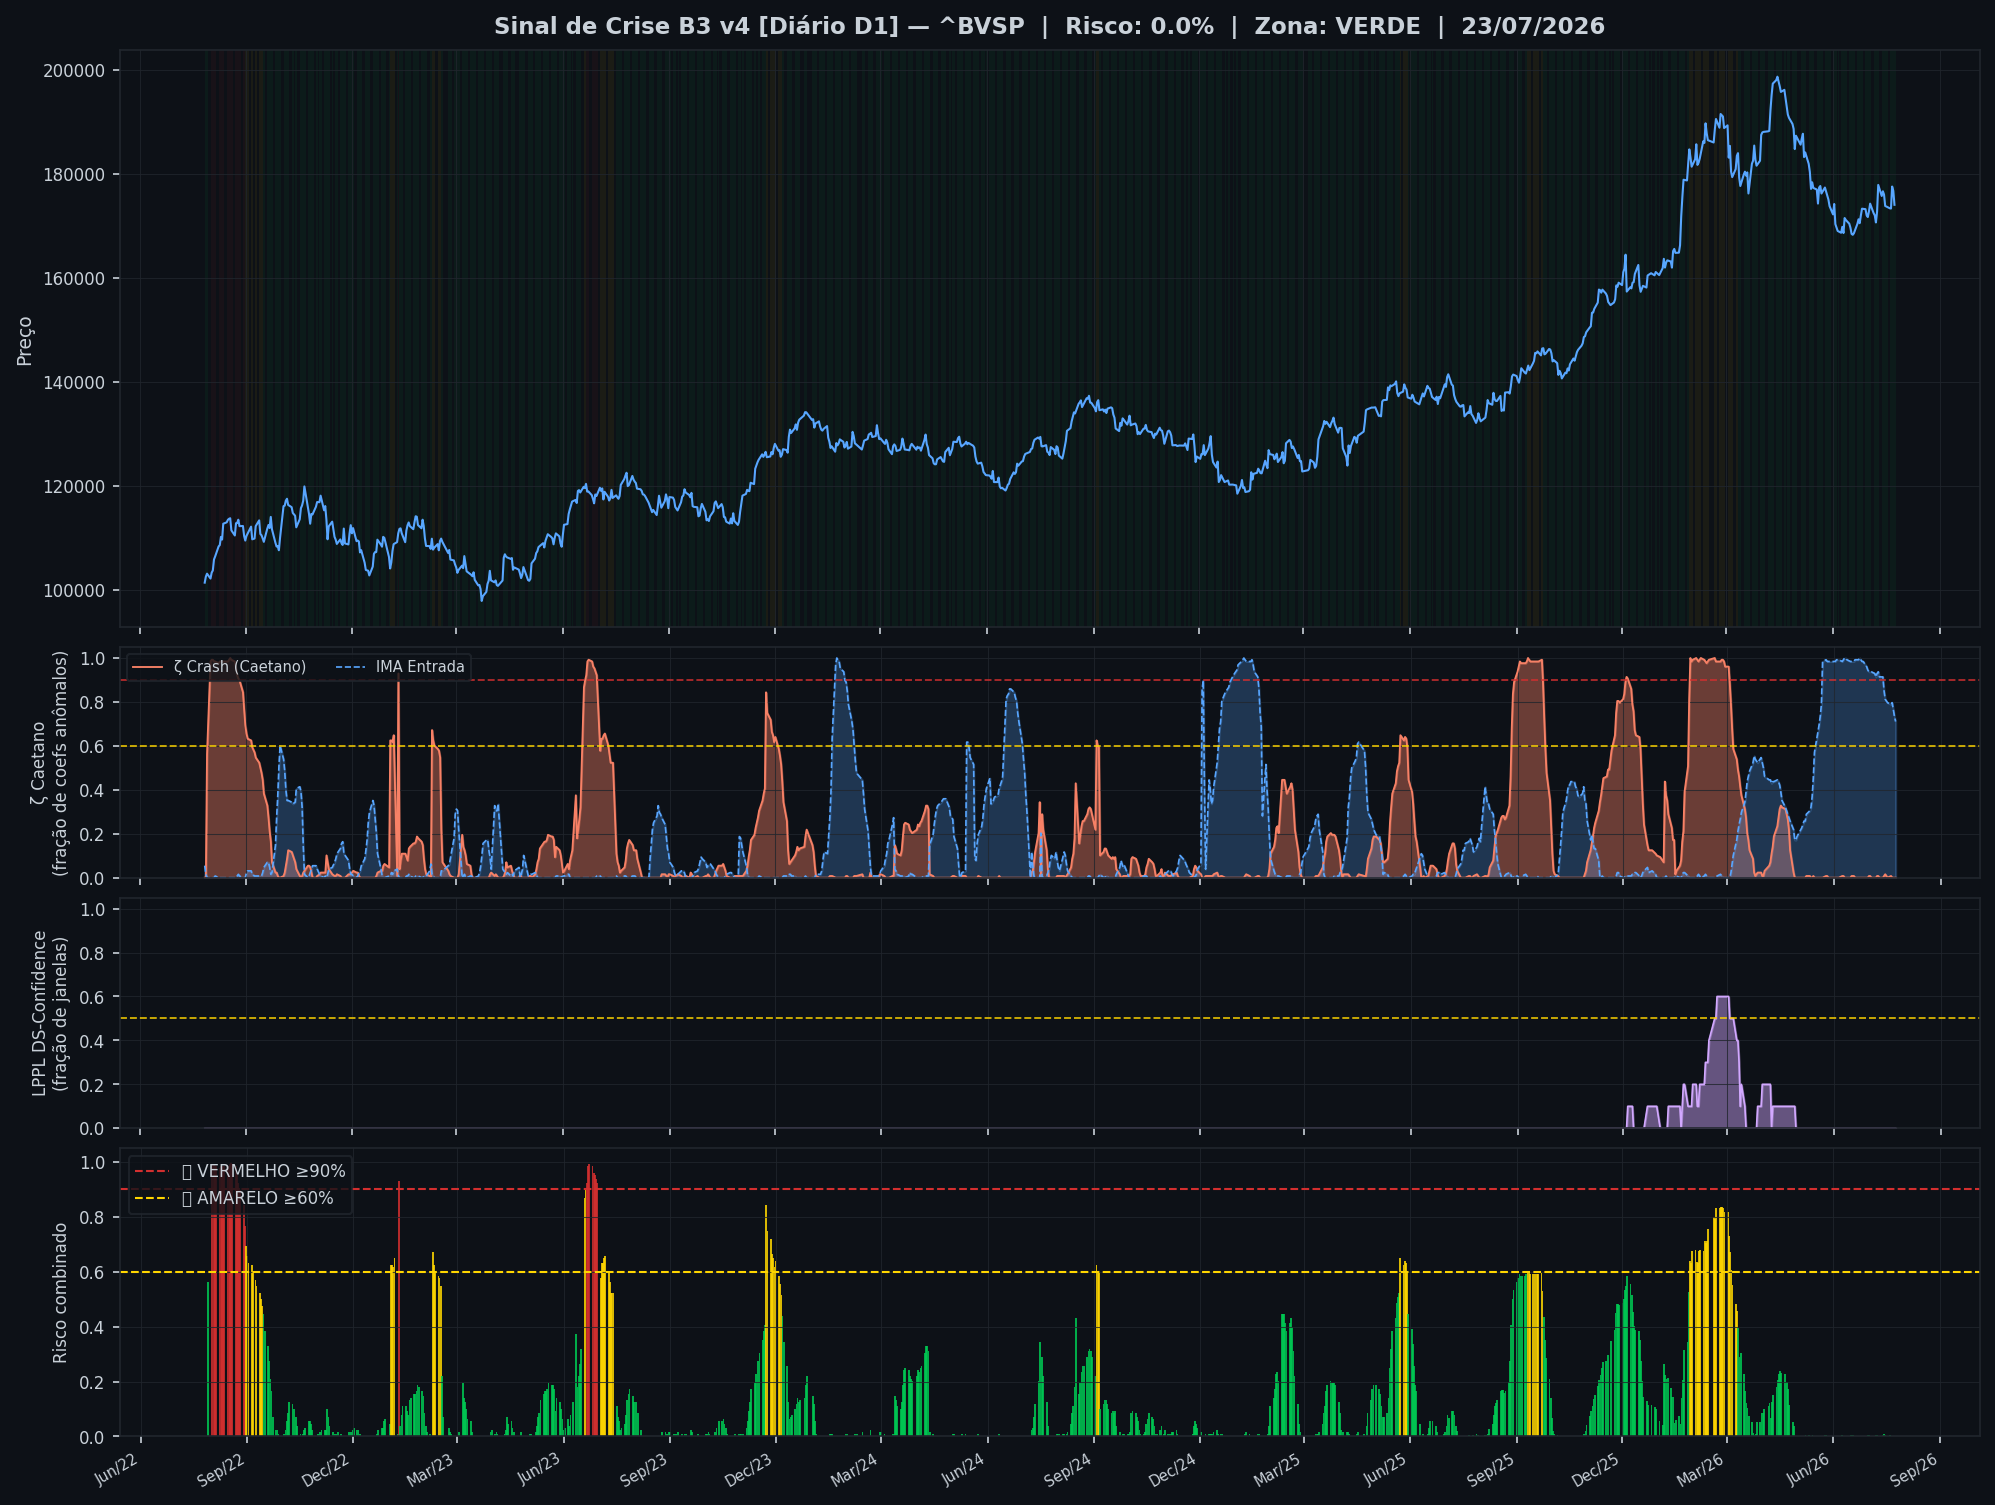
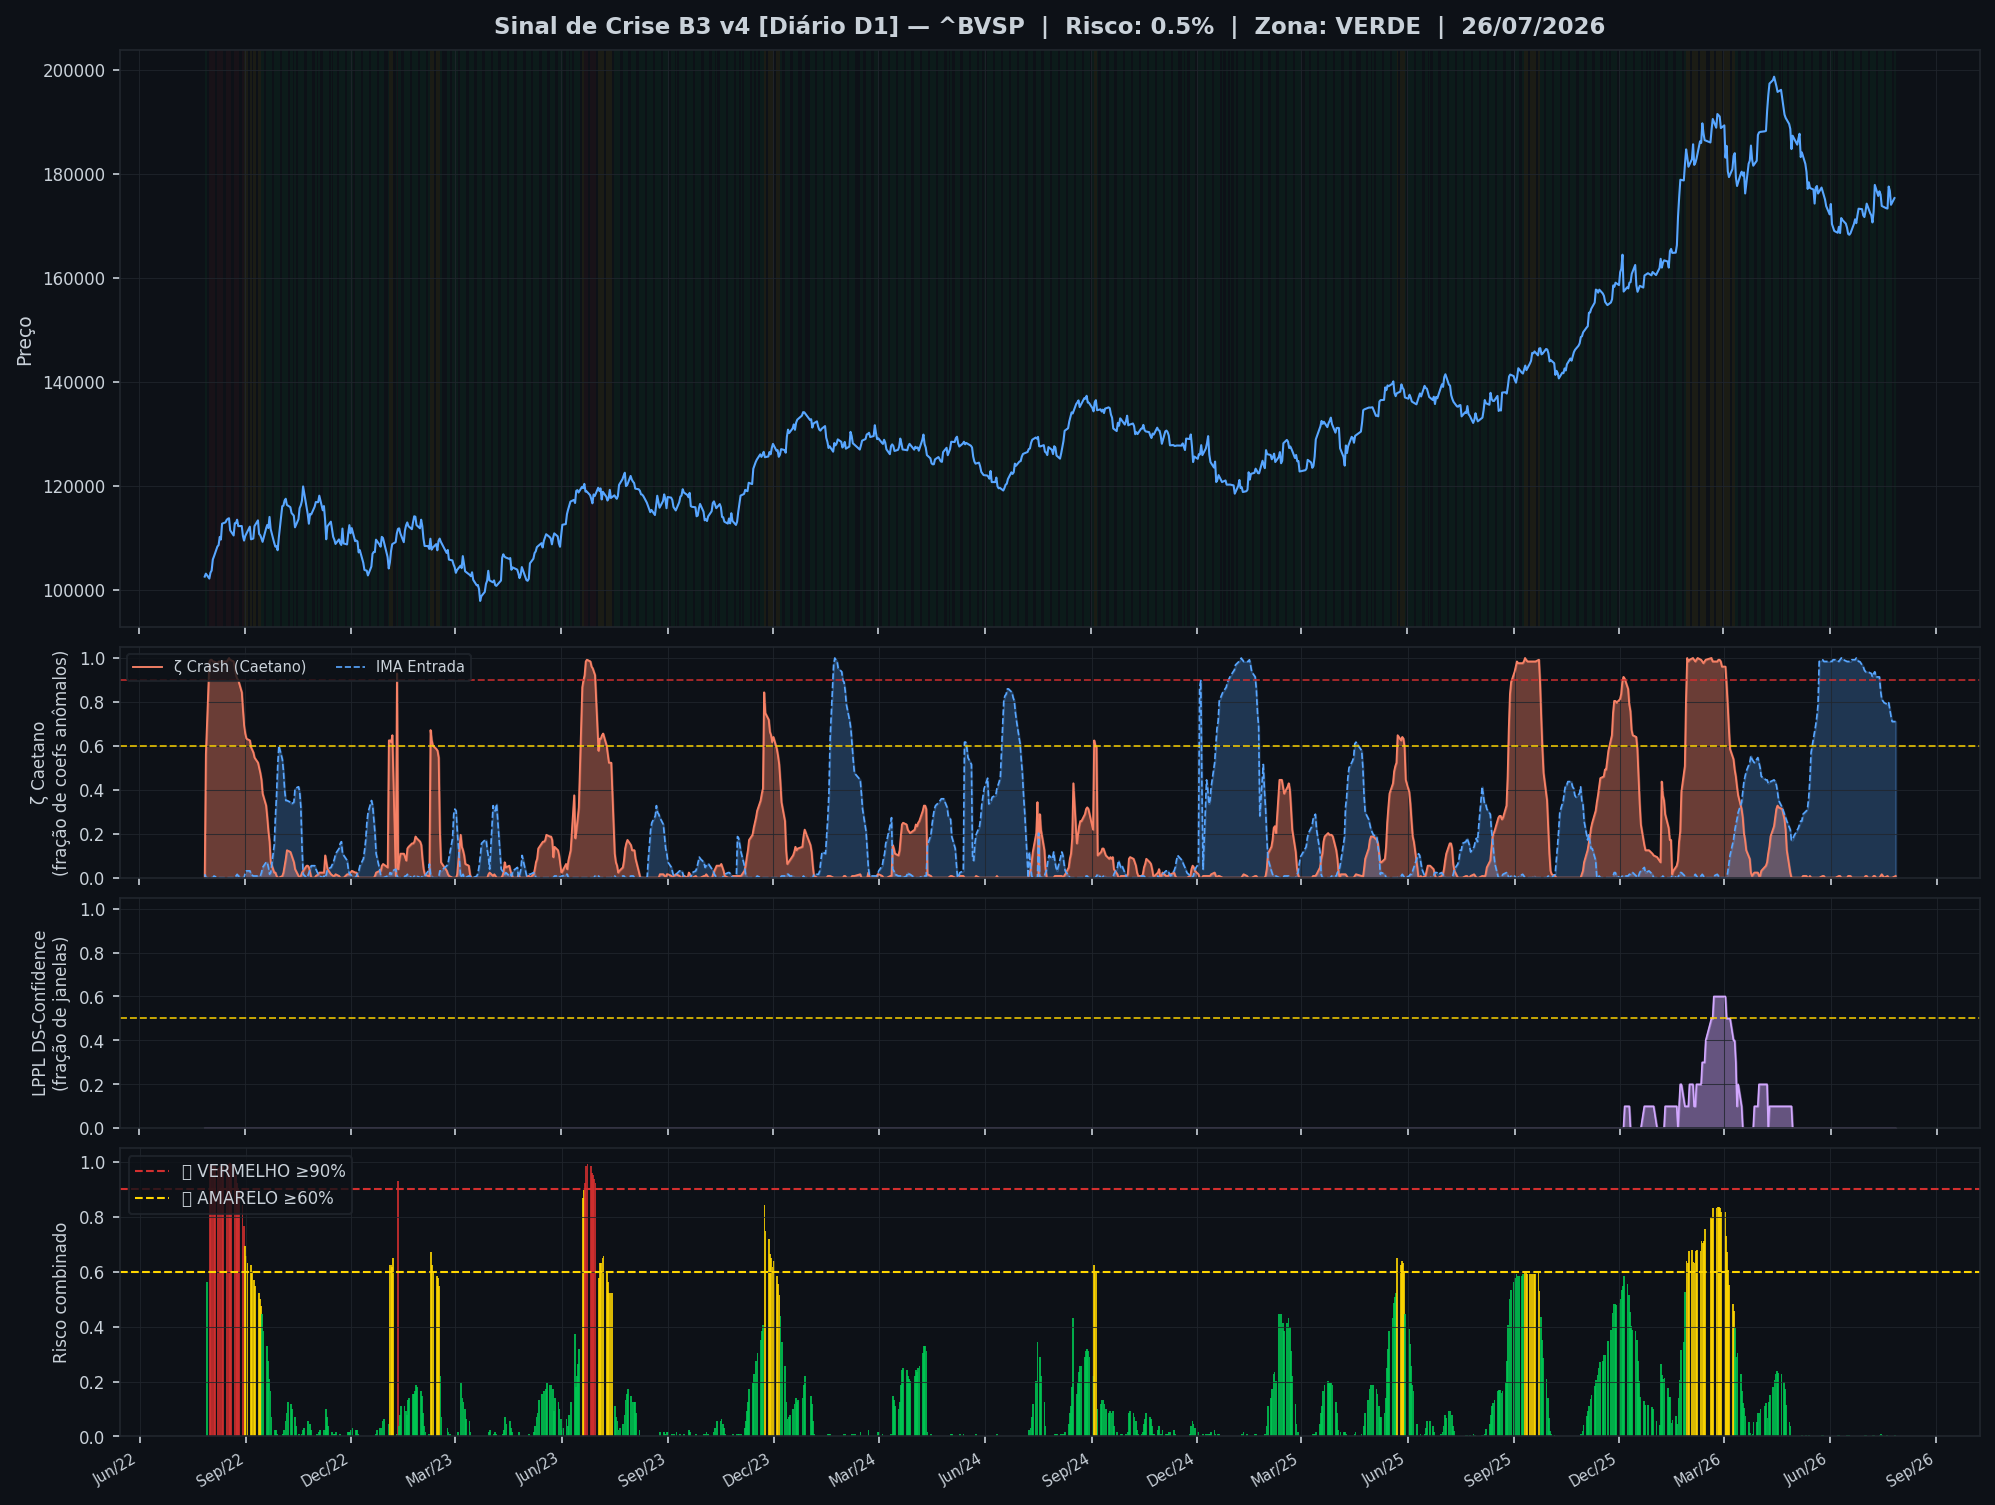
🤖 Auto: Sinal 27/07/2026 19:00

diff --git a/content/diario/2026-07-26.md b/content/diario/2026-07-26.md
@@ -1,0 +1,105 @@
+---
+title: "🟢 Diário 26/07/2026 — VERDE"
+date: 2026-07-27
+tags: [diario]
+---
+
+> [!success] 🟢 **VERDE** — Risco 0% · ＝ +0 p.p. vs leitura anterior
+> `░░░░░░░░░░░░░░░░░░░░`
+> Mercado sem sinais relevantes de estresse.
+
+
+| Indicador | Valor |
+|---|---|
+| 🔴 ζ Crash — severidade da queda em curso | **1%** |
+| 🔵 ζ Entrada — estrutura de fundo | 71% |
+| 🫧 LPPL DS-Confidence | 0% |
+| 📊 Ibovespa | 175.334 pts |
+
+![Gráfico do sinal](../graficos/sinal_diario.png)
+
+## Últimos 30 pregões
+
+| Data | Zona | Risco | IMA Crash | Entrada | LPPL |
+|---|---|---|---|---|---|
+| 2026-07-26 21:00 | 🟢 VERDE | **0%** | 1% | 71% | 0% |
+| 2026-07-23 21:00 | 🟢 VERDE | **0%** | 0% | 71% | 0% |
+| 2026-07-22 21:00 | 🟢 VERDE | **0%** | 0% | 73% | 0% |
+| 2026-07-21 21:00 | 🟢 VERDE | **0%** | 0% | 77% | 0% |
+| 2026-07-20 21:00 | 🟢 VERDE | **0%** | 0% | 80% | 0% |
+| 2026-07-19 21:00 | 🟢 VERDE | **0%** | 1% | 79% | 0% |
+| 2026-07-16 21:00 | 🟢 VERDE | **0%** | 0% | 80% | 0% |
+| 2026-07-15 21:00 | 🟢 VERDE | **0%** | 1% | 80% | 0% |
+| 2026-07-14 21:00 | 🟢 VERDE | **1%** | 2% | 81% | 0% |
+| 2026-07-13 21:00 | 🟢 VERDE | **0%** | 1% | 85% | 0% |
+| 2026-07-12 21:00 | 🟢 VERDE | **0%** | 0% | 91% | 0% |
+| 2026-07-09 21:00 | 🟢 VERDE | **0%** | 0% | 91% | 0% |
+| 2026-07-08 21:00 | 🟢 VERDE | **0%** | 1% | 94% | 0% |
+| 2026-07-07 21:00 | 🟢 VERDE | **0%** | 1% | 93% | 0% |
+| 2026-07-06 21:00 | 🟢 VERDE | **0%** | 0% | 91% | 0% |
+| 2026-07-05 21:00 | 🟢 VERDE | **0%** | 0% | 93% | 0% |
+| 2026-07-02 21:00 | 🟢 VERDE | **0%** | 0% | 94% | 0% |
+| 2026-07-01 21:00 | 🟢 VERDE | **0%** | 1% | 94% | 0% |
+| 2026-06-30 21:00 | 🟢 VERDE | **0%** | 1% | 94% | 0% |
+| 2026-06-29 21:00 | 🟢 VERDE | **0%** | 0% | 95% | 0% |
+| 2026-06-28 21:00 | 🟢 VERDE | **0%** | 0% | 96% | 0% |
+| 2026-06-25 21:00 | 🟢 VERDE | **0%** | 0% | 98% | 0% |
+| 2026-06-24 21:00 | 🟢 VERDE | **0%** | 0% | 98% | 0% |
+| 2026-06-23 21:00 | 🟢 VERDE | **0%** | 0% | 99% | 0% |
+| 2026-06-22 21:00 | 🟢 VERDE | **0%** | 0% | 100% | 0% |
+| 2026-06-21 21:00 | 🟢 VERDE | **0%** | 0% | 99% | 0% |
+| 2026-06-18 21:00 | 🟢 VERDE | **0%** | 0% | 99% | 0% |
+| 2026-06-17 21:00 | 🟢 VERDE | **0%** | 1% | 98% | 0% |
+| 2026-06-16 21:00 | 🟢 VERDE | **0%** | 1% | 98% | 0% |
+| 2026-06-15 21:00 | 🟢 VERDE | **0%** | 1% | 98% | 0% |
+
+## Monitor Multi-Ativo
+
+**0% dos ativos em tensão** (0🔴 0🟡) — quanto mais ativos disparam juntos, mais confiável o sinal.
+
+| Zona | Ativo | Setor | IMA Crash | IMA Entrada |
+|---|---|---|---|---|
+| 🟢 | **VALE** | Mineração | 36.7% | 0.0% |
+| 🟢 | **ITAUUNIBANCO** | Financeiro | 36.7% | 0.0% |
+| 🟢 | **PETROBRAS** | Petróleo | 36.7% | 0.0% |
+| 🟢 | **AXIA ENERGIA** | Energia | 36.7% | 0.0% |
+| 🟢 | **PETROBRAS** | Petróleo | 36.7% | 0.0% |
+| 🟢 | **BRADESCO** | Financeiro | 36.7% | 0.0% |
+| 🟢 | **SABESP** | Saneamento | 36.7% | 0.0% |
+| 🟢 | **ITAUSA** | Financeiro | 36.7% | 0.0% |
+| 🟢 | **B3** | Financeiro | 36.7% | 0.0% |
+| 🟢 | **WEG** | Industrial | 36.7% | 0.0% |
+| 🟢 | **AMBEV S/A** | Consumo | 36.7% | 0.0% |
+| 🟢 | **BTGP BANCO** | Financeiro | 36.7% | 0.0% |
+| 🟢 | **EMBRAER** | Outros | 36.7% | 0.0% |
+| 🟢 | **BRASIL** | Financeiro | 36.7% | 0.0% |
+| 🟢 | **EQUATORIAL** | Energia | 36.7% | 0.0% |
+| 🟢 | **ENEVA** | Energia | 36.7% | 0.0% |
+| 🟢 | **PRIO** | Petróleo | 36.7% | 0.0% |
+| 🟢 | **COPEL** | Energia | 36.7% | 0.0% |
+| 🟢 | **VIBRA** | Energia | 36.7% | 0.0% |
+| 🟢 | **REDE D OR** | Saúde | 36.7% | 0.0% |
+| 🟢 | **LOCALIZA** | Aluguel | 36.7% | 0.0% |
+| 🟢 | **ULTRAPAR** | Outros | 36.7% | 0.0% |
+| 🟢 | **GERDAU** | Siderurgia | 36.7% | 0.0% |
+| 🟢 | **SUZANO S.A.** | Papel/Celulose | 36.7% | 0.0% |
+| 🟢 | **BBSEGURIDADE** | Financeiro | 36.7% | 0.0% |
+| 🟢 | **TELEF BRASIL** | Outros | 36.7% | 0.0% |
+| 🟢 | **USD/BRL** | Câmbio | 3.9% | 0.8% |
+
+![Monitor multi-ativo](../graficos/multi_diario.png)
+
+*Página atualizada em 27/07/2026 19:00 BRT (leitura da barra de 2026-07-26 BRT).*
+
+> [!info]- Como interpretar (clique para expandir)
+> - **ζ Crash**: fração dos coeficientes wavelet acima do corte (Caetano & Yoneyama 2009). Escala absoluta: ζ=0,90 = 90% dos coeficientes anômalos — historicamente, quedas com ζ≥0,90 foram mais fundas e mais longas. **Mede a severidade do movimento em curso, não prevê o início da queda.**
+> - **ζ Entrada**: coeficientes negativos além do corte — estrutura de fundo, possível região de compra.
+> - **LPPL DS-Confidence**: fração de janelas (60–504 pregões) em que o modelo de bolha de Sornette produz um ajuste válido. 30% já é relevante; acima de 50% é forte evidência de estrutura de bolha.
+> - **Zonas com histerese**: o sinal só muda de zona ao cruzar o limiar de entrada, e só volta ao cruzar o de saída — evita flip-flop diário.
+
+
+---
+*Sinal de Crise B3 v4 · IMA Wavelet ([Caetano & Yoneyama, Physica-A 2007](https://doi.org/10.1016/j.physa.2007.03.054)) + LPPL DS-Confidence (Sornette, ETH-Zurich) · [Metodologia](metodologia) · [Histórico](historico)*
+
+> [!quote]- Aviso
+> Estudo acadêmico. Não constitui recomendação de investimento.

diff --git a/content/index.md b/content/index.md
@@ -8,19 +8,19 @@ tags: [home]
 
 Monitoramento diário e intraday do Ibovespa — **IMA Wavelet** (Prof. Marco Antonio Leonel Caetano, ITA/INSPER) + **LPPL DS-Confidence** (Prof. Didier Sornette, ETH-Zurich).
 
-*Última atualização: 27/07/2026 17:30 BRT · ^BVSP · Intraday 15min · v4*
+*Última atualização: 27/07/2026 19:00 BRT · ^BVSP · Diário D1 · v4*
 
-> [!success] 🟢 **VERDE** — Risco 4% · ▲ +2 p.p. vs leitura anterior
-> `█░░░░░░░░░░░░░░░░░░░`
+> [!success] 🟢 **VERDE** — Risco 0% · ＝ +0 p.p. vs leitura anterior
+> `░░░░░░░░░░░░░░░░░░░░`
 > Mercado sem sinais relevantes de estresse.
 
 
 | Indicador | Valor |
 |---|---|
-| 🔴 ζ Crash — severidade da queda em curso | **4%** |
-| 🔵 ζ Entrada — estrutura de fundo | 0% |
+| 🔴 ζ Crash — severidade da queda em curso | **1%** |
+| 🔵 ζ Entrada — estrutura de fundo | 71% |
 | 🫧 LPPL DS-Confidence | 0% |
-| 📊 Ibovespa | 175.432 pts |
+| 📊 Ibovespa | 175.334 pts |
 
 **Multi-ativo:** 0% em tensão (0🔴 0🟡 de 27 ativos)
 
@@ -32,8 +32,13 @@ Monitoramento diário e intraday do Ibovespa — **IMA Wavelet** (Prof. Marco An
 
 | Data | Zona | Risco | IMA | LPPL |
 |---|---|---|---|---|
-| [27 Jul 2026](diario/2026-07-27) | 🟢 VERDE | **4%** | 4% | 0% |
-| [24 Jul 2026](diario/2026-07-24) | 🟢 VERDE | **0%** | 0% | 0% |
+| [26 Jul 2026](diario/2026-07-26) | 🟢 VERDE | **0%** | 1% | 0% |
+| [23 Jul 2026](diario/2026-07-23) | 🟢 VERDE | **0%** | 0% | 0% |
+| [22 Jul 2026](diario/2026-07-22) | 🟢 VERDE | **0%** | 0% | 0% |
+| [21 Jul 2026](diario/2026-07-21) | 🟢 VERDE | **0%** | 0% | 0% |
+| [20 Jul 2026](diario/2026-07-20) | 🟢 VERDE | **0%** | 0% | 0% |
+| [19 Jul 2026](diario/2026-07-19) | 🟢 VERDE | **0%** | 1% | 0% |
+| [16 Jul 2026](diario/2026-07-16) | 🟢 VERDE | **0%** | 0% | 0% |
 
 ## Navegação
 

diff --git a/content/historico.md b/content/historico.md
@@ -7,6 +7,7 @@ tags: [historico]
 
 | Data | Modo | Zona | Risco | IMA | LPPL |
 |---|---|---|---|---|---|
+| 2026-07-26 | diario | 🟢 VERDE | 0% | 1% | 0% |
 | 2026-07-27 16:45 | intraday | 🟢 VERDE | 4% | 4% | 0% |
 | 2026-07-27 16:30 | intraday | 🟢 VERDE | 2% | 2% | 0% |
 | 2026-07-27 16:00 | intraday | 🟢 VERDE | 0% | 0% | 0% |
